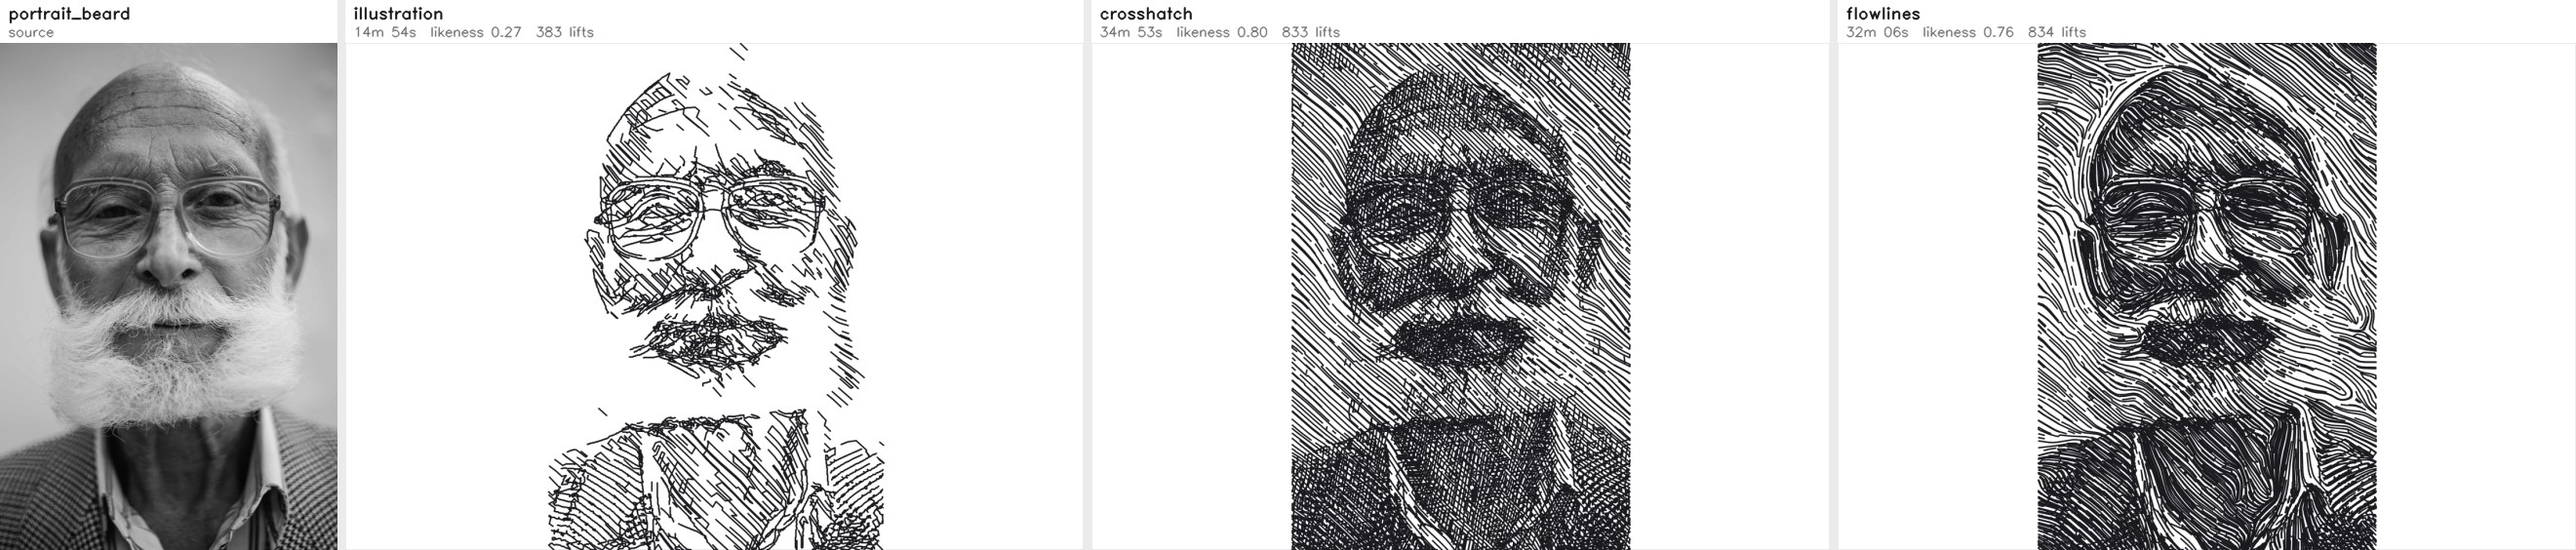
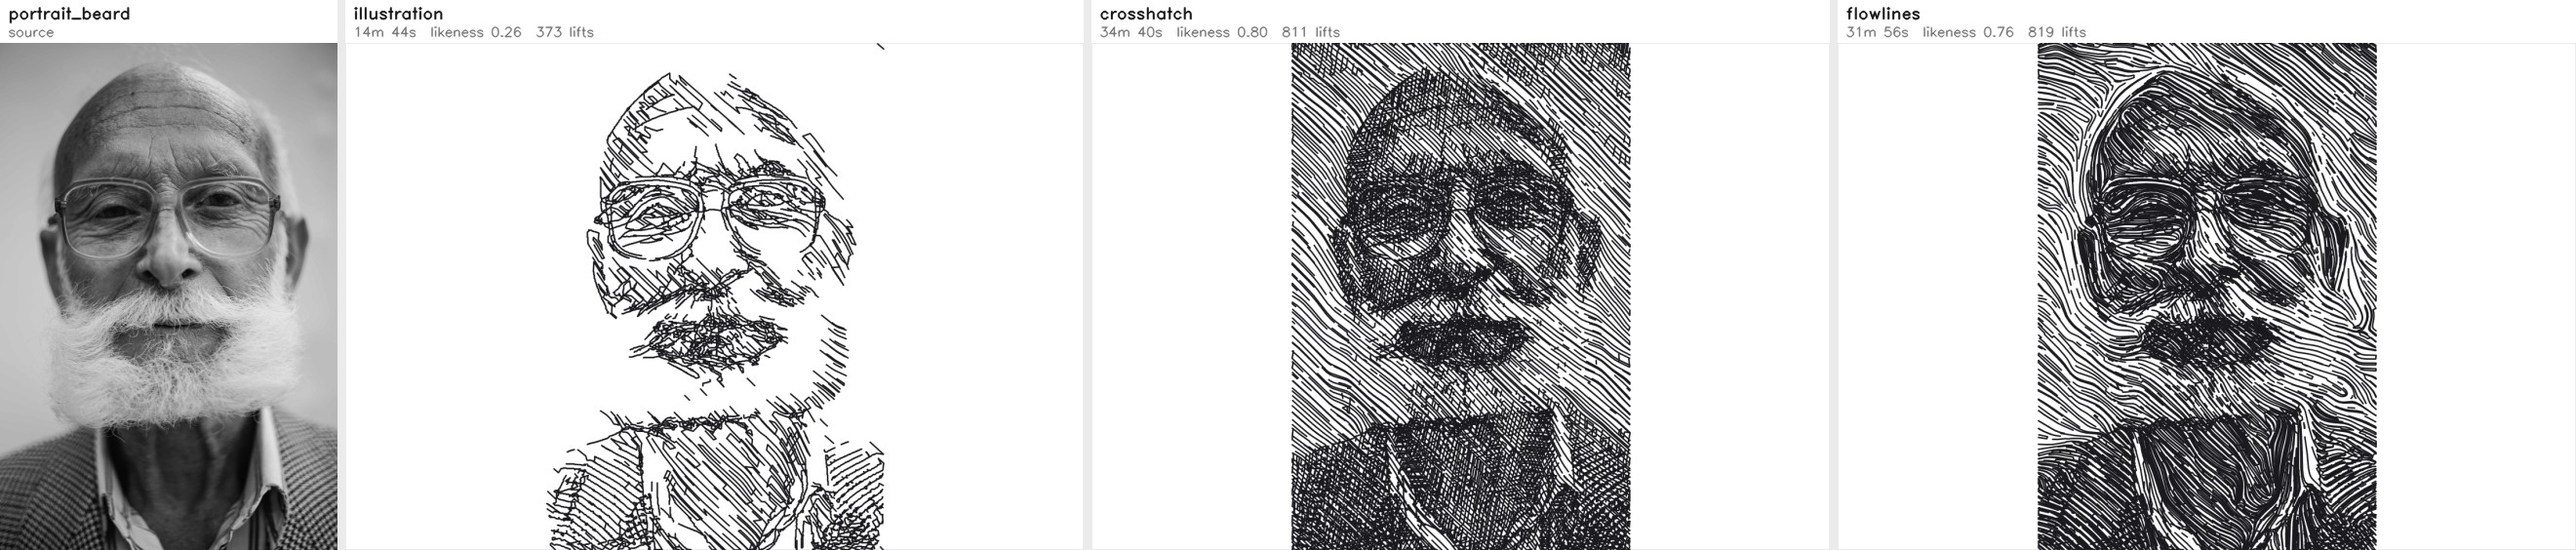
Use Depth Anything V2 Small for depth, falling back to MiDaS
Sharper depth (nose, eye sockets, muzzle instead of one blob per subject)
makes the shadow band and form-following hatching hug the actual shape.
Apache-2.0 weights via transformers, about 0.1-0.2 s on Metal. DSINE was
ruled out for its research-only licence.

diff --git a/plotter/depth.py b/plotter/depth.py
@@ -20,10 +20,16 @@ _MODEL = None
 _TRANSFORM = None
 _DEVICE = None
 
-#: torch.hub entry points, cheapest first.  MiDaS_small runs in hundredths of
-#: a second on Metal and is easily good enough to orient hatching; the larger
-#: nets resolve more but this is not a depth-measuring application.
-MODELS = ("MiDaS_small", "DPT_Hybrid", "DPT_Large")
+#: Depth Anything V2 Small is the default: about 0.1-0.2 s on Metal, and it
+#: resolves a nose, eye sockets and a muzzle where MiDaS_small returns one
+#: smooth blob per subject - which is what the shadow band and the hatching
+#: direction are built from.  MiDaS_small (torch.hub) is the fallback when
+#: ``transformers`` is not installed.
+MODELS = ("MiDaS_small", "DPT_Hybrid", "DPT_Large", "DepthAnythingV2_small")
+
+#: Depth Anything V2 Small (Apache-2.0), official weights on Hugging Face.
+#: Needs the optional ``transformers`` package.
+_DA2 = "depth-anything/Depth-Anything-V2-Small-hf"
 
 
 def available() -> bool:
@@ -52,15 +58,37 @@ def _pick_device():
     return torch.device("cpu")
 
 
-def load(model: str = "MiDaS_small"):
+def resolve(model: str) -> str:
+    """The model that will actually run: Depth Anything needs ``transformers``."""
+    if model == "DepthAnythingV2_small" and \
+            importlib.util.find_spec("transformers") is None:
+        return "MiDaS_small"
+    return model
+
+
+def load(model: str = "DepthAnythingV2_small"):
     """Load and cache the depth model.  First call may download weights."""
     global _MODEL, _TRANSFORM, _DEVICE
+    model = resolve(model)
     if _MODEL is not None and _MODEL[0] == model:
         return _MODEL[1], _TRANSFORM, _DEVICE
 
     import contextlib
     import io
     import torch
+    if model == "DepthAnythingV2_small":
+        from transformers import AutoImageProcessor, AutoModelForDepthEstimation
+        with warnings.catch_warnings(), \
+             contextlib.redirect_stderr(io.StringIO()):
+            warnings.simplefilter("ignore")
+            processor = AutoImageProcessor.from_pretrained(_DA2)
+            net = AutoModelForDepthEstimation.from_pretrained(_DA2)
+        _DEVICE = _pick_device()
+        net.to(_DEVICE).eval()
+        _MODEL = (model, net)
+        _TRANSFORM = processor
+        return net, processor, _DEVICE
+
     # torch.hub narrates every cache hit on both stdout and stderr; the
     # caller is a web app and a CLI, neither of which wants that mixed into
     # its own output.
@@ -80,7 +108,7 @@ def load(model: str = "MiDaS_small"):
 
 
 def estimate(img_rgb: np.ndarray, size: tuple[int, int] | None = None,
-             model: str = "MiDaS_small") -> np.ndarray:
+             model: str = "DepthAnythingV2_small") -> np.ndarray:
     """Relative depth for an RGB image, 0..1 with 1 nearest.
 
     ``size`` is (width, height) to resample to — normally the working
@@ -88,10 +116,14 @@ def estimate(img_rgb: np.ndarray, size: tuple[int, int] | None = None,
     """
     import torch
 
+    model = resolve(model)
     net, transform, device = load(model)
     with torch.no_grad():
-        batch = transform(img_rgb).to(device)
-        pred = net(batch)
+        if model == "DepthAnythingV2_small":
+            batch = transform(images=img_rgb, return_tensors="pt")
+            pred = net(pixel_values=batch["pixel_values"].to(device)).predicted_depth
+        else:
+            pred = net(transform(img_rgb).to(device))
         target = (img_rgb.shape[0], img_rgb.shape[1]) if size is None \
             else (size[1], size[0])
         pred = torch.nn.functional.interpolate(

diff --git a/app.py b/app.py
@@ -715,7 +715,7 @@ HTML = r"""
         </div>
         <label class="check">
           <input type="checkbox" id="use_depth" checked> Depth-driven form
-          <span class="tip" title="Estimates depth with MiDaS on the GPU and hatches along the surface's principal curvature, so strokes wrap a form instead of ruling straight across it. Only applied where the image itself has no structure to follow, so texture is left alone. Needs PyTorch; skipped if absent.">i</span>
+          <span class="tip" title="Estimates depth (Depth Anything V2, or MiDaS without transformers) on the GPU and hatches along the surface's principal curvature, so strokes wrap a form instead of ruling straight across it. Only applied where the image itself has no structure to follow, so texture is left alone. Needs PyTorch; skipped if absent.">i</span>
         </label>
         <div class="ctl" data-when="use_depth">
           <label>Form strength <span class="v" id="form_weightV">0.80</span></label>

diff --git a/image_to_gcode.py b/image_to_gcode.py
@@ -63,8 +63,9 @@ def build_parser() -> argparse.ArgumentParser:
     g.add_argument("--form-weight", type=float, default=0.8, metavar="F",
                    help="how strongly depth-estimated form steers hatching; "
                         "0 disables depth estimation entirely")
-    g.add_argument("--depth-model", default="MiDaS_small",
-                   choices=["MiDaS_small", "DPT_Hybrid", "DPT_Large"])
+    g.add_argument("--depth-model", default="DepthAnythingV2_small",
+                   choices=["DepthAnythingV2_small", "MiDaS_small", "DPT_Hybrid", "DPT_Large"],
+                   help="Depth Anything V2 needs transformers; falls back to MiDaS_small")
     g.add_argument("--lines", default="learned", choices=["learned", "coherent", "canny"],
                    help="line source: learned (Informative Drawings), flow-guided DoG, or Canny")
     g.add_argument("--line-style", default="sketch", choices=["sketch", "contour"])

diff --git a/plotter/engines/illustration.py b/plotter/engines/illustration.py
@@ -60,7 +60,8 @@ def generate(value, coverage, canvas, pen, cfg, features=None, form=None,
     if (rim > 0 or focus > 0) and image_rgb is not None:
         from .. import depth as depth_mod
         if depth_mod.available():
-            depth_map = depth_mod.estimate(image_rgb, size=(w, h))
+            depth_map = depth_mod.estimate(image_rgb, size=(w, h),
+                                           model=cfg.depth_model)
     if rim > 0 and depth_map is not None:
         crescent = _shadow_side(depth_map, px_per_mm, cfg)
         lift = rim * (0.5 + 0.5 * np.clip(coverage / 0.6, 0.0, 1.0))

diff --git a/plotter/config.py b/plotter/config.py
@@ -182,7 +182,7 @@ class RenderConfig:
     #: makes strokes wrap a form instead of ringing a highlight.
     form_weight: float = 0.8
     form_smooth: float = 8.0       # px; curvature direction is twitchy
-    depth_model: str = "MiDaS_small"
+    depth_model: str = "DepthAnythingV2_small"   # falls back to MiDaS_small
     #: "coherent" = flow-based DoG (connected line work), "canny" = the old
     #: fixed-scale detector.
     line_method: str = "learned"

diff --git a/docs/evaluation/README.md b/docs/evaluation/README.md
@@ -48,21 +48,21 @@ wrong because they were tuned on a single picture.
 
 | photo | engine | plot time | likeness | tone error | lifts | drawn m | compute s |
 |---|---|---|---|---|---|---|---|
-| car_grille | illustration | 25m 32s | 0.241 | 0.396 | 904 | 23.8 | 6.7 |
-| car_grille | crosshatch | 1h 17m | 0.711 | 0.078 | 1819 | 93.6 | 4.9 |
-| car_grille | flowlines | 58m 01s | 0.665 | 0.087 | 1283 | 94.7 | 3.4 |
-| cat_tabby | illustration | 20m 19s | 0.103 | 0.194 | 463 | 13.9 | 2.2 |
-| cat_tabby | crosshatch | 1h 00m | 0.679 | 0.058 | 2548 | 52.9 | 3.2 |
-| cat_tabby | flowlines | 57m 01s | 0.648 | 0.062 | 2412 | 52.9 | 3.0 |
-| dog_ottawa | illustration | 19m 12s | 0.137 | 0.381 | 507 | 14.8 | 2.2 |
-| dog_ottawa | crosshatch | 59m 02s | 0.739 | 0.076 | 1316 | 74.9 | 3.9 |
-| dog_ottawa | flowlines | 54m 24s | 0.681 | 0.079 | 1353 | 75.6 | 3.5 |
-| landscape_lake | illustration | 19m 31s | 0.111 | 0.463 | 477 | 15.6 | 2.5 |
-| landscape_lake | crosshatch | 1h 08m | 0.723 | 0.089 | 1566 | 86.5 | 4.3 |
-| landscape_lake | flowlines | 55m 15s | 0.647 | 0.105 | 1263 | 81.8 | 3.3 |
-| portrait_beard | illustration | 14m 54s | 0.266 | 0.320 | 383 | 10.9 | 1.9 |
-| portrait_beard | crosshatch | 34m 53s | 0.803 | 0.072 | 833 | 38.8 | 2.4 |
-| portrait_beard | flowlines | 32m 06s | 0.761 | 0.074 | 834 | 38.6 | 2.3 |
-| portrait_elderly | illustration | 9m 51s | 0.225 | 0.405 | 361 | 9.0 | 1.4 |
-| portrait_elderly | crosshatch | 32m 13s | 0.800 | 0.091 | 779 | 39.6 | 2.4 |
-| portrait_elderly | flowlines | 26m 47s | 0.753 | 0.096 | 744 | 38.1 | 2.1 |
+| car_grille | illustration | 25m 04s | 0.233 | 0.399 | 886 | 23.3 | 6.0 |
+| car_grille | crosshatch | 1h 17m | 0.715 | 0.079 | 1906 | 93.2 | 5.1 |
+| car_grille | flowlines | 57m 52s | 0.665 | 0.088 | 1302 | 94.2 | 3.6 |
+| cat_tabby | illustration | 20m 14s | 0.102 | 0.194 | 463 | 13.9 | 2.5 |
+| cat_tabby | crosshatch | 1h 00m | 0.679 | 0.059 | 2561 | 53.0 | 3.3 |
+| cat_tabby | flowlines | 57m 56s | 0.653 | 0.061 | 2521 | 53.0 | 3.2 |
+| dog_ottawa | illustration | 19m 11s | 0.136 | 0.381 | 495 | 14.8 | 2.4 |
+| dog_ottawa | crosshatch | 59m 23s | 0.740 | 0.075 | 1324 | 75.1 | 3.8 |
+| dog_ottawa | flowlines | 53m 52s | 0.680 | 0.079 | 1285 | 75.6 | 3.6 |
+| landscape_lake | illustration | 19m 39s | 0.109 | 0.464 | 503 | 15.5 | 2.9 |
+| landscape_lake | crosshatch | 1h 08m | 0.731 | 0.089 | 1567 | 86.4 | 4.3 |
+| landscape_lake | flowlines | 55m 15s | 0.644 | 0.104 | 1251 | 81.8 | 3.6 |
+| portrait_beard | illustration | 14m 44s | 0.261 | 0.321 | 373 | 10.8 | 2.2 |
+| portrait_beard | crosshatch | 34m 40s | 0.804 | 0.071 | 811 | 38.9 | 2.6 |
+| portrait_beard | flowlines | 31m 56s | 0.755 | 0.074 | 819 | 38.4 | 2.5 |
+| portrait_elderly | illustration | 9m 49s | 0.227 | 0.404 | 348 | 9.1 | 1.7 |
+| portrait_elderly | crosshatch | 32m 48s | 0.799 | 0.093 | 811 | 39.7 | 2.7 |
+| portrait_elderly | flowlines | 26m 32s | 0.753 | 0.096 | 739 | 38.0 | 2.2 |

diff --git a/docs/algorithms.md b/docs/algorithms.md
@@ -157,15 +157,23 @@ across-pass finds the edge; the along-pass is what turns a field of noisy
 responses into connected line work a pen can draw in one stroke.
 
 **Depth-driven form** (`--form-weight`, default 0.8) estimates monocular
-depth with MiDaS and hatches along the surface's principal curvature — the
+depth and hatches along the surface's principal curvature — the
 direction an engraver would ring a cylinder, not the direction along its
 axis. On Apple Silicon this runs on the Metal (MPS) backend and costs about
-20 ms after the model is warm. It needs PyTorch (`pip install torch`); the
+0.1–0.2 s after the model is warm. It needs PyTorch (`pip install torch`); the
 app runs fine without it and the control is simply skipped.
+
+The depth model is Depth Anything V2 Small (Apache-2.0, needs `transformers`),
+with MiDaS small as the fallback. MiDaS returns roughly one smooth blob per
+subject; Depth Anything resolves a nose, eye sockets and a muzzle, so the
+shadow band hugs the cheek and jaw instead of spreading across the forehead.
+A dedicated surface-normal model was considered: DSINE's licence is
+research-only, and Marigold (a diffusion model) is far slower; normals from
+the sharper depth were enough to get most of the gain.
 
 Depth is smooth by nature, and applying it everywhere erases real texture —
 tried naively, it flattened every feather on a photograph of a bird into
-ruled diagonal, because feathers are texture MiDaS smooths away, not
+ruled diagonal, because feathers are texture depth smooths away, not
 geometry it can see. Depth is therefore blended in only where the image's own
 structure is weak (`1 - coherence`), so it fills the ground shading can't
 hold — a cheek, a shoulder, the side of a sphere — and leaves real texture to
@@ -190,7 +198,7 @@ separate, lighter shading layer the way pen-and-ink work is built:
 
 - hatching only where tone is darker than `--shadow`; the paper carries the
   light and mid tones instead of every region getting strokes;
-- shading faded on the background using MiDaS depth (`--focus`), so detail
+- shading faded on the background using depth (`--focus`), so detail
   goes to the subject rather than to blurred grass behind it;
 - no shading on the line pixels themselves, so layers don't double-ink;
 - a shadow band on the side of the subject facing away from a virtual light

diff --git a/README.md b/README.md
@@ -114,7 +114,8 @@ open("photo.gcode", "w").write(result.gcode())
 
 ## Optional dependencies
 
-`torch` enables depth estimation (MiDaS) and the learned line model
-(Informative Drawings, MIT licence); both run on Apple Silicon's Metal
-backend. Weights download on first use. Without torch, engines fall back to
+`torch` enables depth estimation and the learned line model (Informative
+Drawings, MIT licence); both run on Apple Silicon's Metal backend. Depth uses
+Depth Anything V2 Small (Apache-2.0) when `transformers` is installed and
+MiDaS otherwise. Weights download on first use. Without torch, engines fall back to
 classical methods. `rembg` powers background removal.
